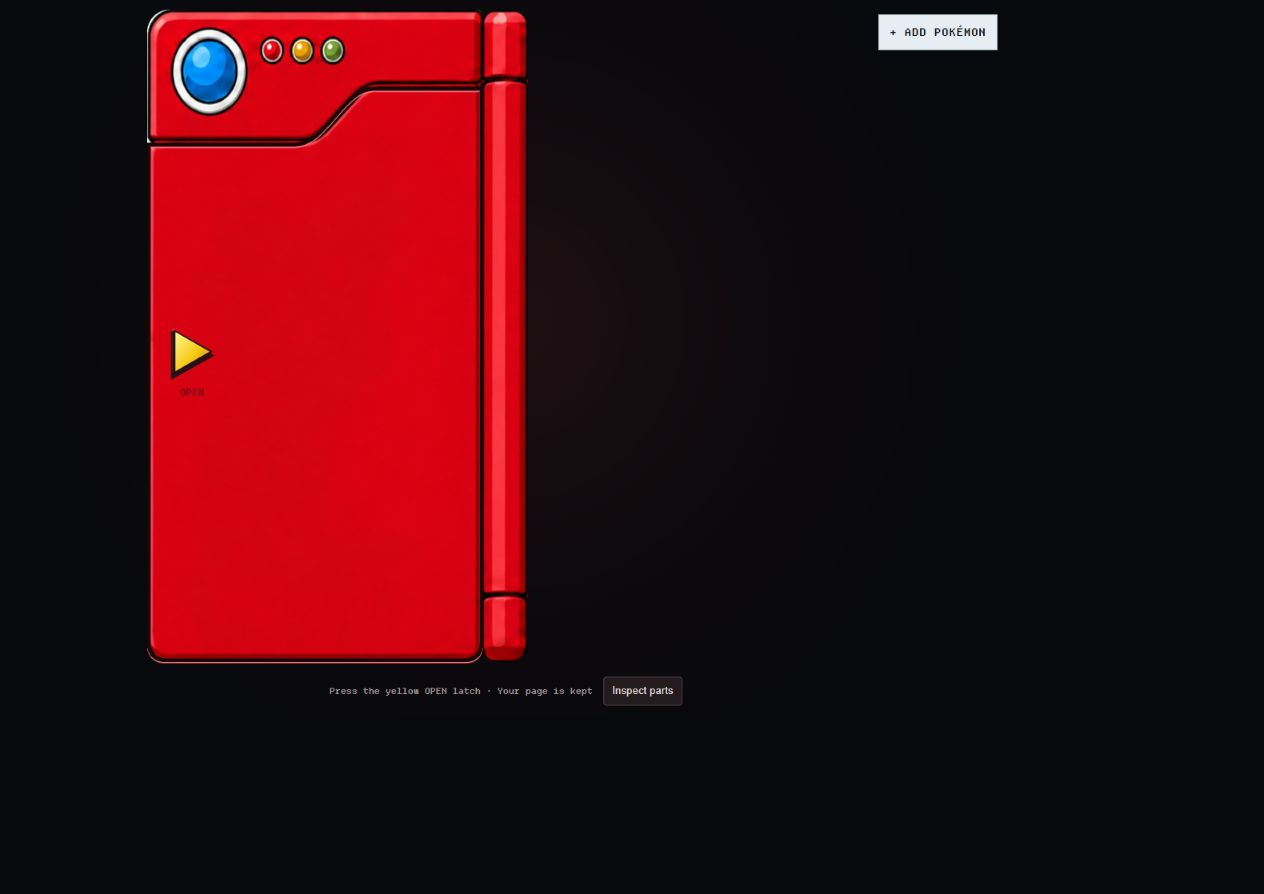
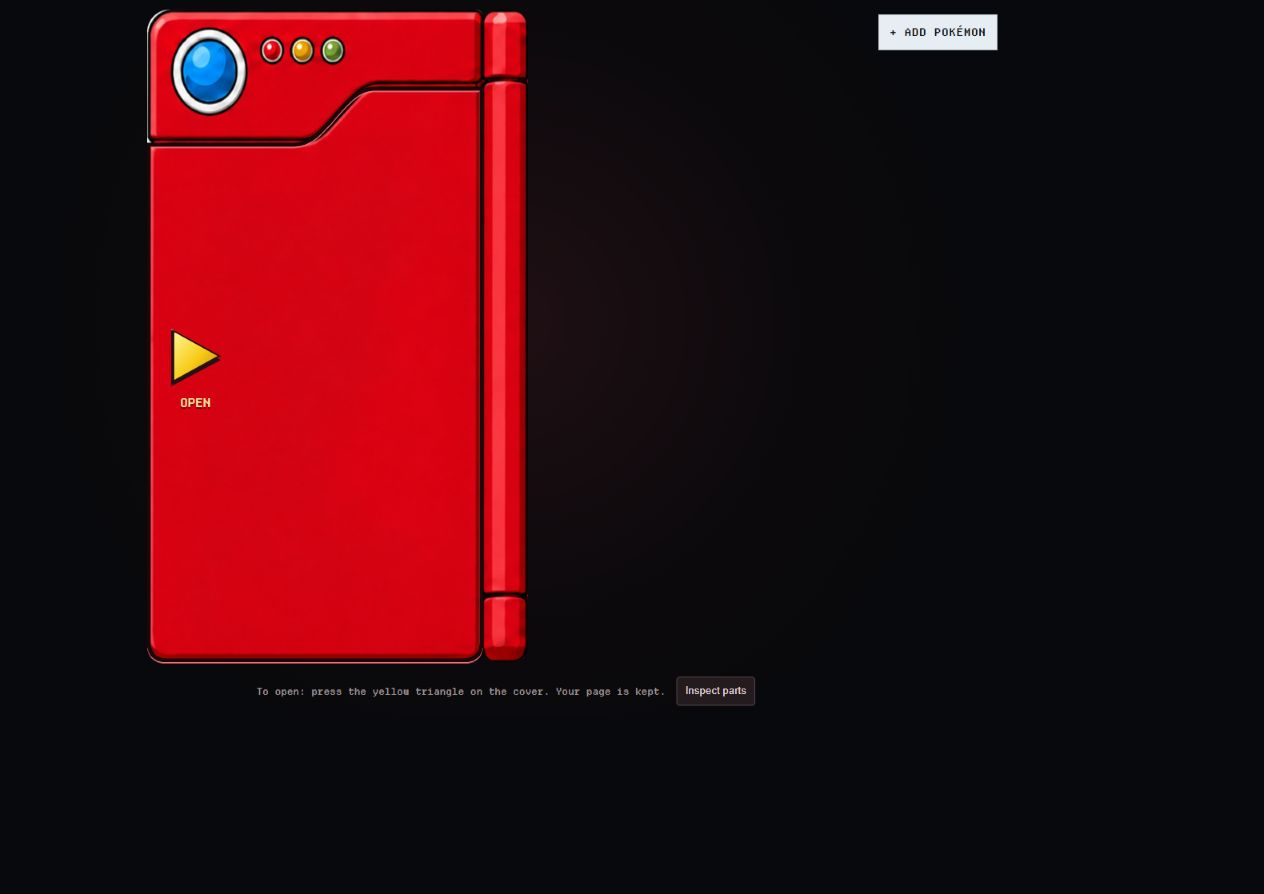
prototype(controls): match Codedex press and clarify lid actions

Changed region(s): [[0.216, 0.755, 0.6171, 0.8154], [0.1234, 0.3624, 0.1851, 0.453]]

diff --git a/.scratch/sm-dex/prototypes/ticket-31-eight-casings/styles.css b/.scratch/sm-dex/prototypes/ticket-31-eight-casings/styles.css
@@ -428,6 +428,7 @@ main {
   --cap-light: #50c2ff;
   --cap: #079dea;
   --cap-dark: #006da9;
+  --cap-depth: #0065ab;
   --cap-ink: #083c54;
   border-radius: 10px;
   user-select: none;
@@ -445,10 +446,10 @@ main {
 
 .control .base {
   z-index: 0;
-  inset: 3px 0 0;
+  inset: 6px 0 0;
   border: 2px solid #200909;
   border-radius: inherit;
-  background: #431317;
+  background: var(--cap-depth);
   box-shadow: 0 2px 0 #ff65724d, inset 0 3px 5px #000c;
 }
 
@@ -458,7 +459,7 @@ main {
 
 .control .face {
   z-index: 1;
-  inset: 0 2px 7px;
+  inset: 0 0 4px;
   display: grid;
   place-items: center;
   border: 2px solid #171a20;
@@ -468,9 +469,9 @@ main {
   font-family: "Departure Mono", ui-monospace, monospace;
   font-size: 13px;
   letter-spacing: .04em;
-  text-shadow: 0 1px 0 #ffffff38;
-  box-shadow: inset 1px 2px 0 #ffffff83, inset -1px -3px 0 #0004, 0 4px 0 #10171dd9;
-  transition: transform 75ms ease-out, filter 90ms ease-out, box-shadow 75ms ease-out;
+  text-shadow: 0 2px 0 #0003;
+  box-shadow: inset 1px 2px 0 #ffffff83, inset -1px -2px 0 #0004;
+  transition: transform 100ms ease, filter 100ms ease;
 }
 
 .control:hover .face,
@@ -481,17 +482,19 @@ main {
 .control:active .face,
 .control.is-pressed .face {
   transform: translateY(4px);
-  box-shadow: inset 0 1px 0 #ffffff68, inset 0 -1px 0 #0004, 0 0 0 #10171d;
+  filter: brightness(0.86);
+  text-shadow: none;
 }
 
-.tone-red { --cap-light: #ff5962; --cap: #ee0017; --cap-dark: #b50012; --cap-ink: #48000a; }
-.tone-black { --cap-light: #55565b; --cap: #303034; --cap-dark: #17171b; --cap-ink: #dddde0; }
-.tone-white { --cap-light: #fff; --cap: #ededed; --cap-dark: #b9b9bf; --cap-ink: #404049; }
-.tone-green { --cap-light: #80cc63; --cap: #4aab3f; --cap-dark: #257e2b; --cap-ink: #193c1a; }
-.tone-dark-green { --cap-light: #125b50; --cap: #06443c; --cap-dark: #002b29; --cap-ink: #98c2a8; }
-.tone-yellow { --cap-light: #ffed77; --cap: #f5c619; --cap-dark: #bd8700; --cap-ink: #583d00; }
+.tone-red { --cap-light: #ff5962; --cap: #ee0017; --cap-dark: #b50012; --cap-depth: #81000a; --cap-ink: #48000a; }
+.tone-black { --cap-light: #55565b; --cap: #303034; --cap-dark: #17171b; --cap-depth: #111115; --cap-ink: #dddde0; }
+.tone-white { --cap-light: #fff; --cap: #ededed; --cap-dark: #b9b9bf; --cap-depth: #747481; --cap-ink: #404049; }
+.tone-green { --cap-light: #80cc63; --cap: #4aab3f; --cap-dark: #257e2b; --cap-depth: #18551d; --cap-ink: #193c1a; }
+.tone-dark-green { --cap-light: #125b50; --cap: #06443c; --cap-dark: #002b29; --cap-depth: #001b19; --cap-ink: #98c2a8; }
+.tone-yellow { --cap-light: #ffed77; --cap: #f5c619; --cap-dark: #bd8700; --cap-depth: #a16207; --cap-ink: #583d00; }
 .shape-pill { border-radius: 18px; }
-.shape-pill .face { font-size: 10px; }
+.shape-pill .face { font-size: 11px; }
+[data-control-id="inner-close"] .face { color: #fff1b8; font-size: 12px; }
 .shape-round { border-radius: 50%; }
 .shape-round .face { font-size: 20px; }
 .shape-latch { border-radius: 0; }
@@ -511,11 +514,12 @@ main {
 .shape-latch::after {
   content: "OPEN";
   position: absolute;
-  top: 72px;
+  top: 82px;
   left: 0;
   width: 100%;
-  color: #680916;
-  font: 12px "Departure Mono", monospace;
+  color: #ffeda0;
+  font: 15px "Departure Mono", monospace;
+  text-shadow: 0 2px 0 #660614;
 }
 .dpad-assembly {
   position: absolute;
@@ -536,7 +540,7 @@ main {
   background: linear-gradient(135deg, #626267, #323235 40%, #202024);
   color: #8a8a90;
   box-shadow: inset 0 3px 0 #9d9da2, inset 0 -3px 0 #111;
-  transition: transform 75ms ease-out, filter 90ms ease-out;
+  transition: transform 100ms ease, filter 100ms ease;
 }
 .dpad-rocker span { position: absolute; font-size: 13px; }
 .dpad-rocker .north { top: 8px; left: 49px; }
@@ -546,12 +550,14 @@ main {
 .dpad-rocker i { position: absolute; inset: 42px; border: 1px solid #212124; border-radius: 50%; background: #2f2f34; }
 .shape-dpad { border-radius: 3px; }
 .controls:has(.shape-dpad:hover) .dpad-rocker { filter: brightness(1.17); }
+.device[data-dpad] .dpad-rocker { filter: brightness(0.86); }
 .device[data-dpad="up"] .dpad-rocker { transform: translateY(2px) rotateX(-7deg); }
 .device[data-dpad="down"] .dpad-rocker { transform: translateY(2px) rotateX(7deg); }
 .device[data-dpad="left"] .dpad-rocker { transform: translateY(2px) rotateY(7deg); }
 .device[data-dpad="right"] .dpad-rocker { transform: translateY(2px) rotateY(-7deg); }
 .inspect-parts .control .face,
 .inspect-parts .dpad-rocker { transform: translateY(-20px); opacity: .68; }
+.inspect-parts .control.is-pressed .face { transform: translateY(-16px); }
 .device-guide {
   display: flex;
   align-items: center;
@@ -559,7 +565,7 @@ main {
   flex-wrap: wrap;
   gap: 14px;
   color: #9e9296;
-  font: 11px "Departure Mono", monospace;
+  font: 12px "Departure Mono", monospace;
   text-align: center;
 }
 .device-guide button {

diff --git a/.scratch/sm-dex/prototypes/ticket-31-eight-casings/controls.js b/.scratch/sm-dex/prototypes/ticket-31-eight-casings/controls.js
@@ -1,6 +1,6 @@
 // Measured in each 420 × 816 casing plate. Gaps belong to the shell, never to a button.
 export const controls = [
-  { id: "outer-latch", owner: "outer", action: "open", label: "OPEN: unfold the cover and resume the portfolio", text: "▶", tone: "yellow", shape: "latch", x: 28, y: 399, width: 56, height: 64 },
+  { id: "outer-latch", owner: "outer", action: "open", label: "OPEN: press and release the yellow triangle to unfold the cover", text: "▶", tone: "yellow", shape: "latch", x: 28, y: 399, width: 64, height: 72 },
   { id: "body-b", owner: "body", action: "b", label: "B: go back one level; close from Main Menu", text: "", tone: "red", shape: "round", x: 57, y: 501, width: 30, height: 30 },
   { id: "body-power", owner: "body", action: "close", label: "CLOSE: fold the cover; keep the current portfolio page", text: "⏻", tone: "black", shape: "round", x: 28, y: 580, width: 62, height: 62 },
   { id: "body-start", owner: "body", action: "start", label: "START: return to all six portfolio sections", text: "START", tone: "red", shape: "pill", x: 112, y: 583, width: 77, height: 32 },
@@ -21,7 +21,7 @@ export const controls = [
     x: 32 + index % 5 * 72, y: 383 + Math.floor(index / 5) * 72, width: 62, height: 62,
   })),
   { id: "inner-back", owner: "inner", action: "b", label: "B: go back one level; close from Main Menu", text: "B", tone: "black", shape: "pill", x: 182, y: 545, width: 87, height: 34 },
-  { id: "inner-close", owner: "inner", action: "close", label: "CLOSE: fold this cover over the hinge; keep your page", text: "CLOSE", tone: "black", shape: "pill", x: 291, y: 545, width: 87, height: 34 },
+  { id: "inner-close", owner: "inner", action: "close", label: "CLOSE: press and release to fold this cover left; keep your page", text: "◀ CLOSE", tone: "black", shape: "pill", x: 278, y: 539, width: 104, height: 44 },
   { id: "inner-page-left", owner: "inner", action: "left", label: "PREVIOUS: show previous content page", text: "◀", tone: "white", shape: "key", x: 32, y: 562, width: 57, height: 62 },
   { id: "inner-page-right", owner: "inner", action: "right", label: "NEXT: show next content page", text: "▶", tone: "white", shape: "key", x: 103, y: 562, width: 57, height: 62 },
   { id: "inner-a", owner: "inner", action: "a", label: "A: open the highlighted section or entry", text: "A", tone: "yellow", shape: "round", x: 318, y: 604, width: 58, height: 58 },

diff --git a/.scratch/sm-dex/prototypes/ticket-31-eight-casings/app.js b/.scratch/sm-dex/prototypes/ticket-31-eight-casings/app.js
@@ -1,4 +1,5 @@
-import { controls } from "./controls.js?v=3.2";
+import { controls } from "./controls.js?v=4";
+import { bindPressFeedback } from "./press-feedback.js?v=4";
 
 const device = document.querySelector("#device");
 const frame = document.querySelector("#device-frame");
@@ -232,25 +233,12 @@ function addControl(container, spec) {
     if (spec.shape === "dpad") delete device.dataset.dpad;
   };
   button.addEventListener("click", () => handleAction(spec.action, spec.id));
-  button.addEventListener("pointerdown", (event) => {
-    if (event.button !== 0) return;
-    press();
-  });
-  button.addEventListener("pointerup", release);
-  button.addEventListener("pointercancel", release);
-  button.addEventListener("pointerleave", release);
-  button.addEventListener("keydown", (event) => {
-    if (event.repeat && (event.key === " " || event.key === "Enter")) {
-      event.preventDefault();
-      return;
-    }
-    if (event.key === " " || event.key === "Enter") press();
-  });
-  button.addEventListener("keyup", release);
+  const cancel = bindPressFeedback(button, { press, release });
+  window.addEventListener("blur", cancel);
   button.addEventListener("mouseenter", () => showTooltip(button));
   button.addEventListener("focus", () => showTooltip(button));
   button.addEventListener("mouseleave", hideTooltip);
-  button.addEventListener("blur", () => { release(); hideTooltip(); });
+  button.addEventListener("blur", () => { cancel(); hideTooltip(); });
   container.append(button);
 }
 
@@ -390,8 +378,8 @@ function render() {
   device.dataset.version = VERSIONS[state.version].name.toLowerCase();
   device.dataset.lastControl = state.lastControl || "";
   document.querySelector("#device-hint").textContent = state.open
-    ? "Hover for function · Press a cap · CLOSE folds the cover"
-    : "Press the yellow OPEN latch · Your page is kept";
+    ? "To close: press ◀ CLOSE, the right black button below the keypad."
+    : "To open: press the yellow triangle on the cover. Your page is kept.";
 
   if (!state.open) {
     primaryScreen.replaceChildren();

diff --git a/.scratch/sm-dex/prototypes/ticket-31-eight-casings/press-feedback.js b/.scratch/sm-dex/prototypes/ticket-31-eight-casings/press-feedback.js
@@ -1,0 +1,33 @@
+// The hardware face is momentary. Application actions happen only after activation is released.
+export function bindPressFeedback(button, { press, release }) {
+  let heldKey = null;
+  const cancel = () => {
+    heldKey = null;
+    release();
+  };
+  button.addEventListener("pointerdown", (event) => {
+    if (event.button === 0) press();
+  });
+  button.addEventListener("pointerup", release);
+  button.addEventListener("pointercancel", cancel);
+  button.addEventListener("pointerleave", () => {
+    if (!heldKey) release();
+  });
+  button.addEventListener("keydown", (event) => {
+    if (event.key !== " " && event.key !== "Enter") return;
+    // Native Enter activates on keydown. Defer it so the lid cannot disappear while held.
+    event.preventDefault();
+    if (event.repeat || heldKey) return;
+    heldKey = event.key;
+    press();
+  });
+  button.addEventListener("keyup", (event) => {
+    if (event.key !== " " && event.key !== "Enter") return;
+    event.preventDefault();
+    if (heldKey !== event.key) return;
+    cancel();
+    button.click();
+  });
+  button.addEventListener("blur", cancel);
+  return cancel;
+}

diff --git a/.scratch/sm-dex/prototypes/ticket-31-eight-casings/index.html b/.scratch/sm-dex/prototypes/ticket-31-eight-casings/index.html
@@ -6,7 +6,7 @@
     <meta name="color-scheme" content="dark" />
     <title>SM'S DEX — Classic Red control prototype</title>
     <link rel="preload" as="image" href="assets/kanto-clean-casing-v3.png" />
-    <link rel="stylesheet" href="styles.css?v=3.2" />
+    <link rel="stylesheet" href="styles.css?v=4" />
   </head>
   <body>
     <main>
@@ -62,6 +62,6 @@
         <clipPath id="outer-silhouette" clipPathUnits="objectBoundingBox"><path d="M 1,.12 H .674 C .581,.12 .533,.207 .438,.207 H 0 V .97 Q 0,1 .062,1 H .938 Q 1,1 1,.97 Z" /></clipPath>
       </defs>
     </svg>
-    <script type="module" src="app.js?v=3.2"></script>
+    <script type="module" src="app.js?v=4"></script>
   </body>
 </html>

diff --git a/.scratch/sm-dex/prototypes/ticket-31-eight-casings/README.md b/.scratch/sm-dex/prototypes/ticket-31-eight-casings/README.md
@@ -1,4 +1,4 @@
-# Ticket 31: Kanto casing and controls, revision 3
+# Ticket 31: Kanto casing and controls, revision 4
 
 This is the Kanto approval gate only. The user rejected the vector revision and asked to keep
 ticket 26's illustrated look, separate the controls, and make the device close coherently.
@@ -14,7 +14,7 @@ python -m http.server 4173 --bind 127.0.0.1
 node .scratch/sm-dex/prototypes/ticket-31-eight-casings/verify_controls.mjs
 ```
 
-Open `http://127.0.0.1:4173/.scratch/sm-dex/prototypes/ticket-31-eight-casings/?v=3.2`.
+Open `http://127.0.0.1:4173/.scratch/sm-dex/prototypes/ticket-31-eight-casings/?v=4`.
 Add `&reduce-motion` for the instant-transition verification path.
 
 ## How the parts work
@@ -22,10 +22,16 @@ Add `&reduce-motion` for the instant-transition verification path.
 The casing is a generated raster plate. Buttons and screen content are not baked into it.
 `controls.js` is the single list of button positions, shapes, labels, and actions.
 
-Each ordinary button contains a fixed recessed socket and an inset cap. At rest the cap has a
-visible lower edge. Hover brightens only the cap. Pointer down, Space, and Enter lower it 4px.
-Release, pointer exit, pointer cancellation, and blur release it. The 7px bottom inset leaves
-3px of clearance even while pressed. The target and socket never move.
+Each ordinary button contains a fixed recessed socket and a cap. At rest the cap has a visible
+4px lower edge. Hover brightens only the cap. Pointer down, Space, and Enter lower it 4px over
+100ms ease, darken it, and remove its text shadow. The fixed depth starts 6px below the top.
+The face is 4px shorter than the target, so pressing it lands flush without overshooting.
+This matches the measured Codédex mechanism while retaining the casing's colours and shapes.
+
+The actual event bindings live in `press-feedback.js`. Space and Enter do not activate on keydown.
+They hold the face down, then activate once on keyup. Pointer activation uses native click release.
+Pointer cancellation and blur cancel feedback; keyboard blur also cancels pending activation.
+The target, depth layer, and neighbours never move. The tests exercise the same event bindings.
 
 The ten blue keys have 10px horizontal and vertical gaps. The white pair has a 14px gap.
 All 28 target rectangles are non-overlapping within their casing face. These are device-space
@@ -40,10 +46,12 @@ It is a scratch diagnostic, not the portfolio's final chrome.
 
 ## How it closes
 
-The yellow triangle is a triangular outer latch, not a round button carrying an arrow.
+The yellow triangle is a 64 × 72px triangular outer latch, not a round button carrying an arrow.
+Its OPEN caption is high contrast. The right black ◀ CLOSE pill has a 104 × 44px target.
+The guide beneath the casing names the control available in the current state.
 
-1. When closed, pressing the triangle opens the cover.
-2. When open, pressing the right-hand black CLOSE pill folds that same cover left.
+1. When closed, press and release the triangle to open the cover.
+2. When open, press and release the right-hand black ◀ CLOSE pill to fold that same cover left.
 3. The cover rotates 180 degrees about the stationary hinge. The triangle moves with its outer face.
 4. The fixed lens header stays exposed. The cover never carries a second lens strip.
 5. Closing retains the current section, entry, page, and version. Reopening resumes them.
@@ -111,9 +119,12 @@ cover outline, and the right display's vertical adjustment are deliberate intera
 
 - `node verify_controls.mjs`: 28 unique targets; no overlaps; 10px keypad gaps; 14px white-key gap;
   cap containment; unified D-pad; registered hinge and cover geometry.
-- Native browser pointer activation: 28/28 controls recorded their own ID and changed the expected
+- Revision 4 native browser pointer activation: 28/28 controls recorded their own ID and changed the expected
   device/content state.
-- Native browser keyboard activation: 28/28 Space and 28/28 Enter activations.
+- Revision 4 native browser keyboard activation: 28/28 Space and 28/28 Enter activations.
+- The regression check first failed with "Codédex face timing must be 100ms ease"; it now passes.
+  Event-binding tests cover held keys, no keydown activation, keyup activation once, repeat suppression,
+  blur cancellation, and pointer cancellation.
 - Hover labels were checked on all 28 controls, including the triangular outer latch.
 - Keys 1–6 exposed identifying portfolio content. Resume and /become are explicitly labelled samples.
 - CLOSE → triangle → reopen retained the selected project and detail text.
@@ -122,10 +133,16 @@ cover outline, and the right display's vertical adjustment are deliberate intera
 - 375, 768, and 1280px overview layouts had zero document horizontal overflow.
 - Reduced-motion flow exercised the instant open/close path.
 - Browser console contained no warnings or errors during the final verification pass.
-- Held-state travel is checked from geometry/CSS; an automated real held-input screenshot and touch
+- Held-state travel is checked from geometry/CSS and event-binding tests; an automated real held-input screenshot and touch
   emulation have not been completed. Do not claim the full original eight-casing acceptance gate.
 - Small-screen overview scales the complete device. Fine controls are small on a phone; a dedicated
   enlarged interaction view remains a separate usability decision before production.
 
 Approval captures are in `screenshots/`. Source research remains in
 `docs/research/kanto-device-interaction-references.md`.
+
+The button-free atlas is an implementation layer, not an assembled approval preview. Show the
+live prototype or the open/closed screenshots to users, never that atlas as evidence of controls.
+Codédex was rechecked at https://www.codedex.io/ on 2026-09-03: live face transition 0.1s,
+face height total minus 4px, fixed depth top 6px. Prior detailed research is
+`docs/research/codedex-button-press.md`.

diff --git a/.scratch/sm-dex/issues/31-eight-casing-interaction-proof.md b/.scratch/sm-dex/issues/31-eight-casing-interaction-proof.md
@@ -81,10 +81,23 @@ The ticket remains claimed and the eight-casing acceptance boxes remain unchecke
 real held-input visual capture, touch emulation, and the remaining seven devices are not complete.
 The README distinguishes measured checks from outstanding checks and records the RGB atlas limitation.
 
+## Revision 4: annotated preview and Codédex feedback
+
+The user's annotation referred to the button-free generated atlas, which had been linked as though
+it were the assembled result. That preview omitted the separately rendered triangle and controls.
+Show assembled browser captures from now on.
+
+The triangle and its OPEN caption are larger and higher contrast. The interior ◀ CLOSE control is
+larger, remains clear of its neighbours, and is named explicitly in the state-specific guide.
+Live Codédex inspection confirmed the 4px/100ms mechanism. The revision now uses its fixed-depth,
+darkened-held-face behavior. Enter/Space hold feedback until release, then activate once.
+All 28 controls passed pointer, Space, and Enter activation checks after the change.
+
 ## Handoff
 
-**Built:** Kanto revision 3 with clean illustrated plates, separated raised caps and fixed sockets,
-hover/focus descriptions, native pointer/Space/Enter activation, and coherent open/close geometry.
+**Built:** Kanto revision 4 with clean illustrated plates, separated caps and fixed depth layers,
+Codédex-style 4px/100ms press feedback, release-driven keyboard activation, clearer triangle/CLOSE
+controls, and coherent open/close geometry.
 The prototype README records the action/content map, browser checks, and asset prompts.
 
 **Deviated:** Per the user's updated request, controls are deterministic CSS parts over a generated

diff --git a/.scratch/sm-dex/HANDOFF.md b/.scratch/sm-dex/HANDOFF.md
@@ -4,16 +4,16 @@
 
 Resolved: 01, 02, 03, 18, 19, 22, 23, 24, 25, 26, 27, 28, 30
 Frontier: 04, 05, 06, 07, 08, 09, 11, 13, 17
-In flight: 20 (untouched), 21 (untouched), 31 (Kanto revision 3 approval gate)
+In flight: 20 (untouched), 21 (untouched), 31 (Kanto revision 4 approval gate)
 Open but superseded: 29, replaced by ticket 30
 
 ## Last session
 
-The user rejected the vector casing and sliced-button approach. Ticket 31 now uses a generated
-button-free illustrated plate, separate native caps/sockets, visible gutters, and one rocking D-pad.
-The outside triangle opens; the inside CLOSE pill folds the same cover while preserving the selected
-portfolio page. The fixed lens header remains visible. Measured browser checks and remaining gaps
-are recorded in `prototypes/ticket-31-eight-casings/README.md`.
+The user's annotation was on the button-free atlas, not the assembled device. Revision 4 makes
+the triangle and CLOSE control more legible, matches the measured Codédex 4px/100ms press behavior,
+and activates Enter/Space only after release. All 28 controls passed all three activation modes.
+Show the live prototype or assembled screenshots, not the empty atlas. Verification and outstanding
+touch/held-screenshot limitations are recorded in `prototypes/ticket-31-eight-casings/README.md`.
 
 ## Not yet written down
 
@@ -22,4 +22,4 @@ alpha generation are recorded beside the prototype. No production architecture d
 
 ## Next
 
-Get visual and interaction approval for Kanto revision 3 before building the remaining seven casings.
+Get visual and interaction approval for Kanto revision 4 before building the remaining seven casings.
